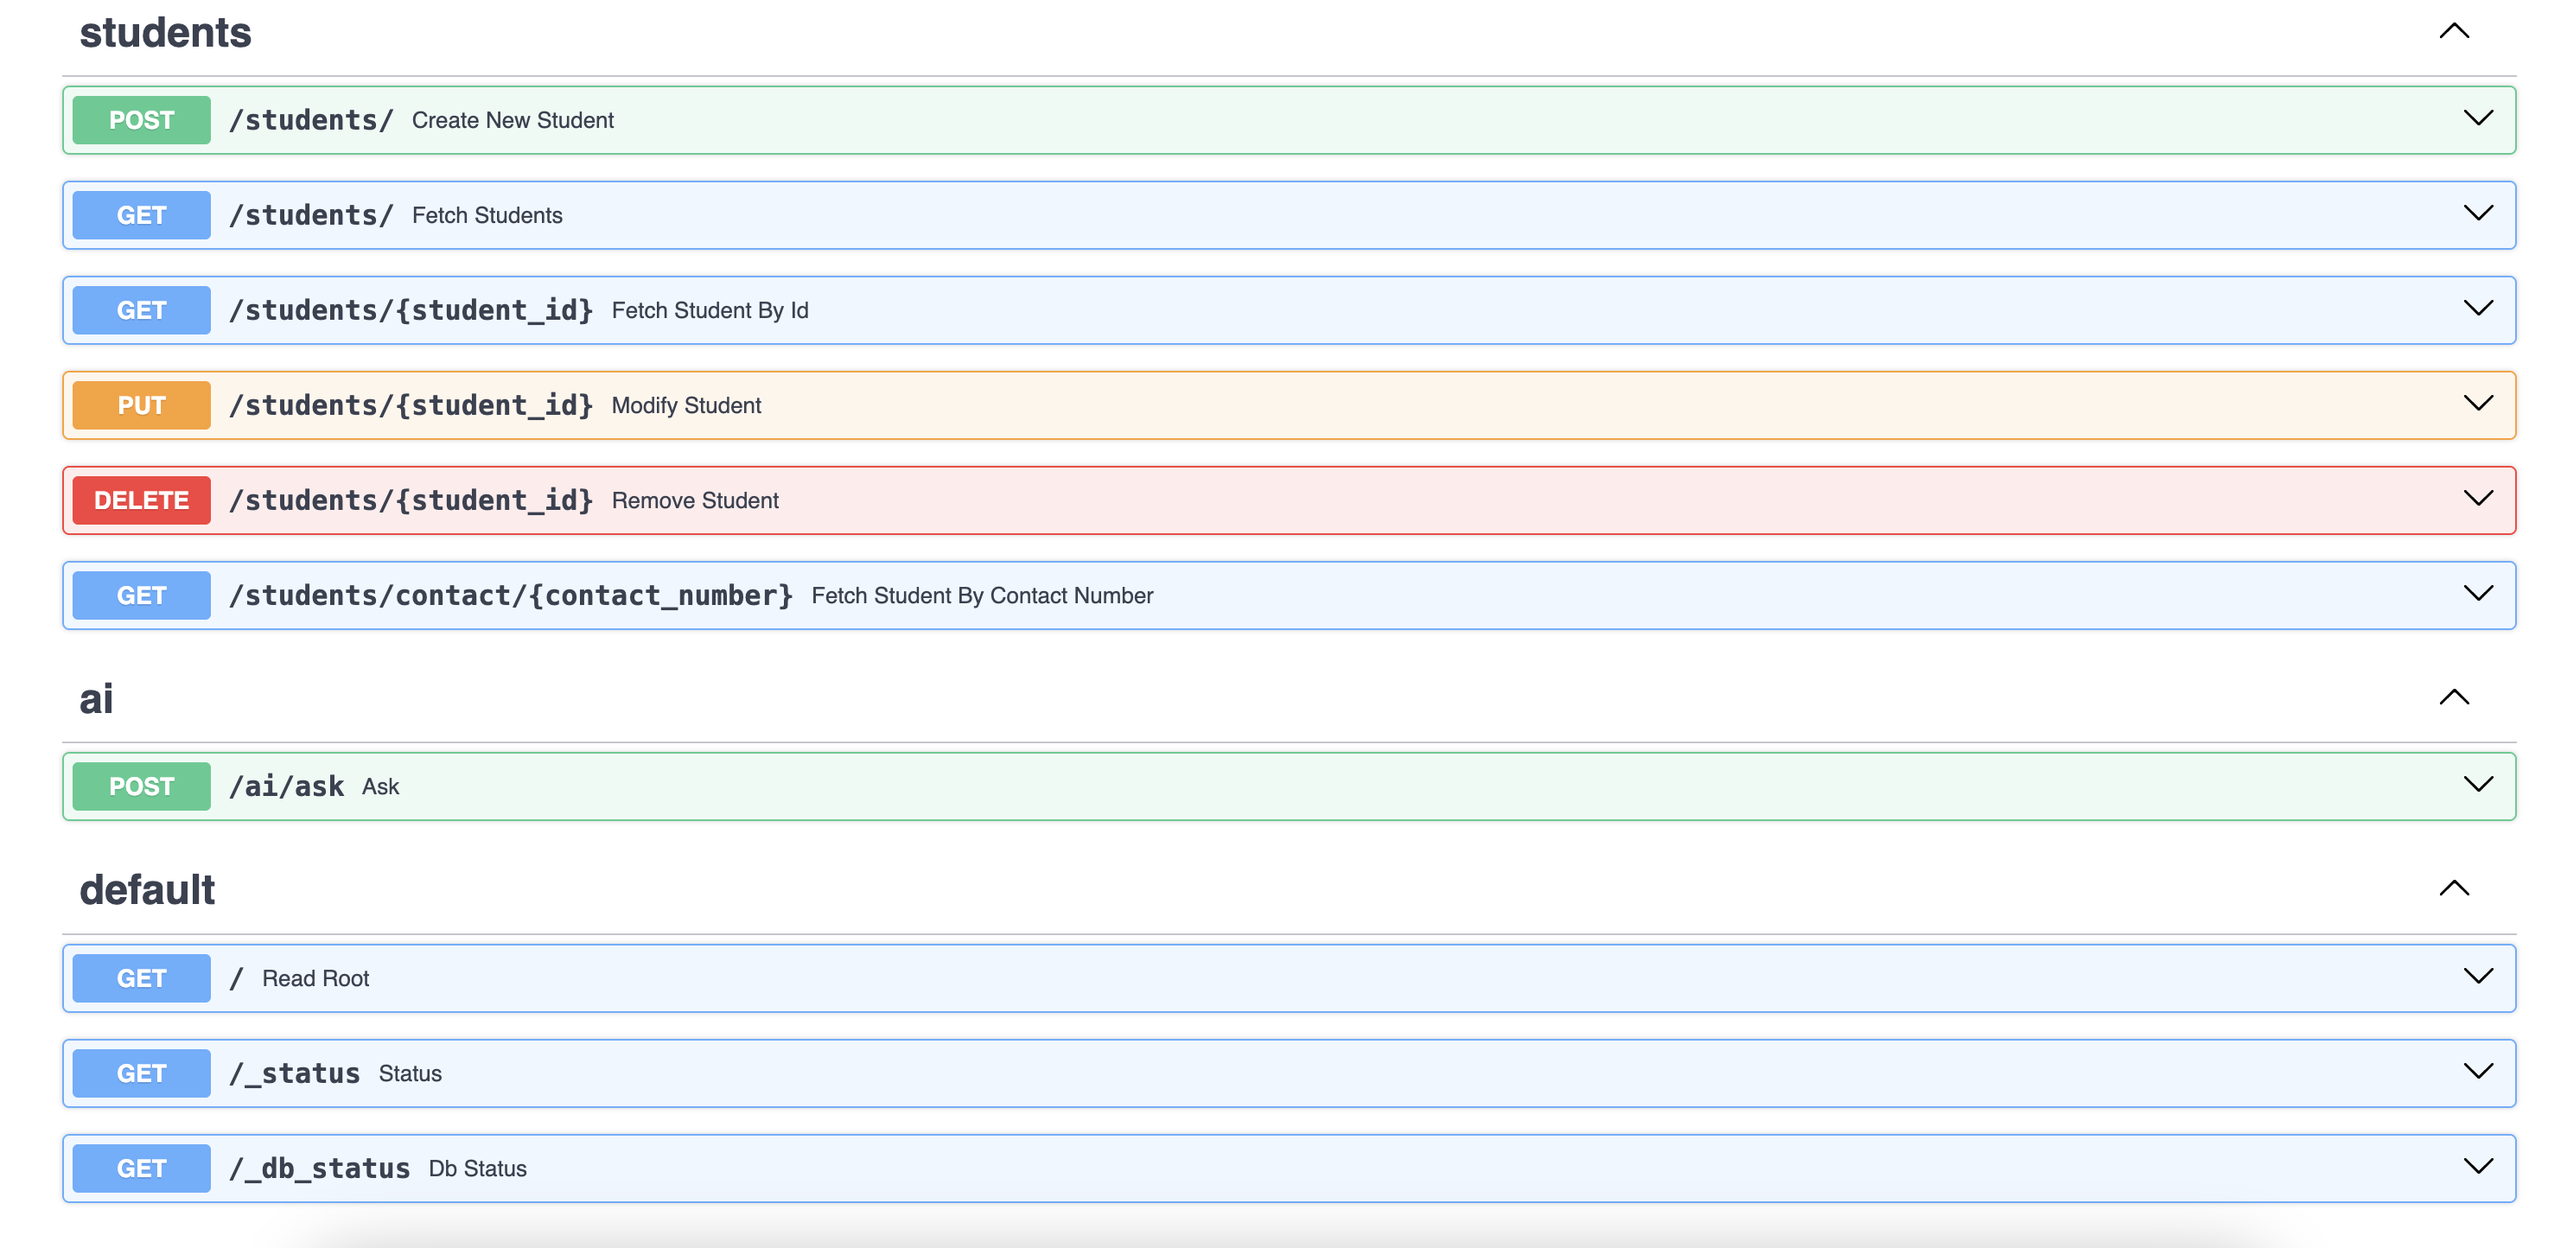
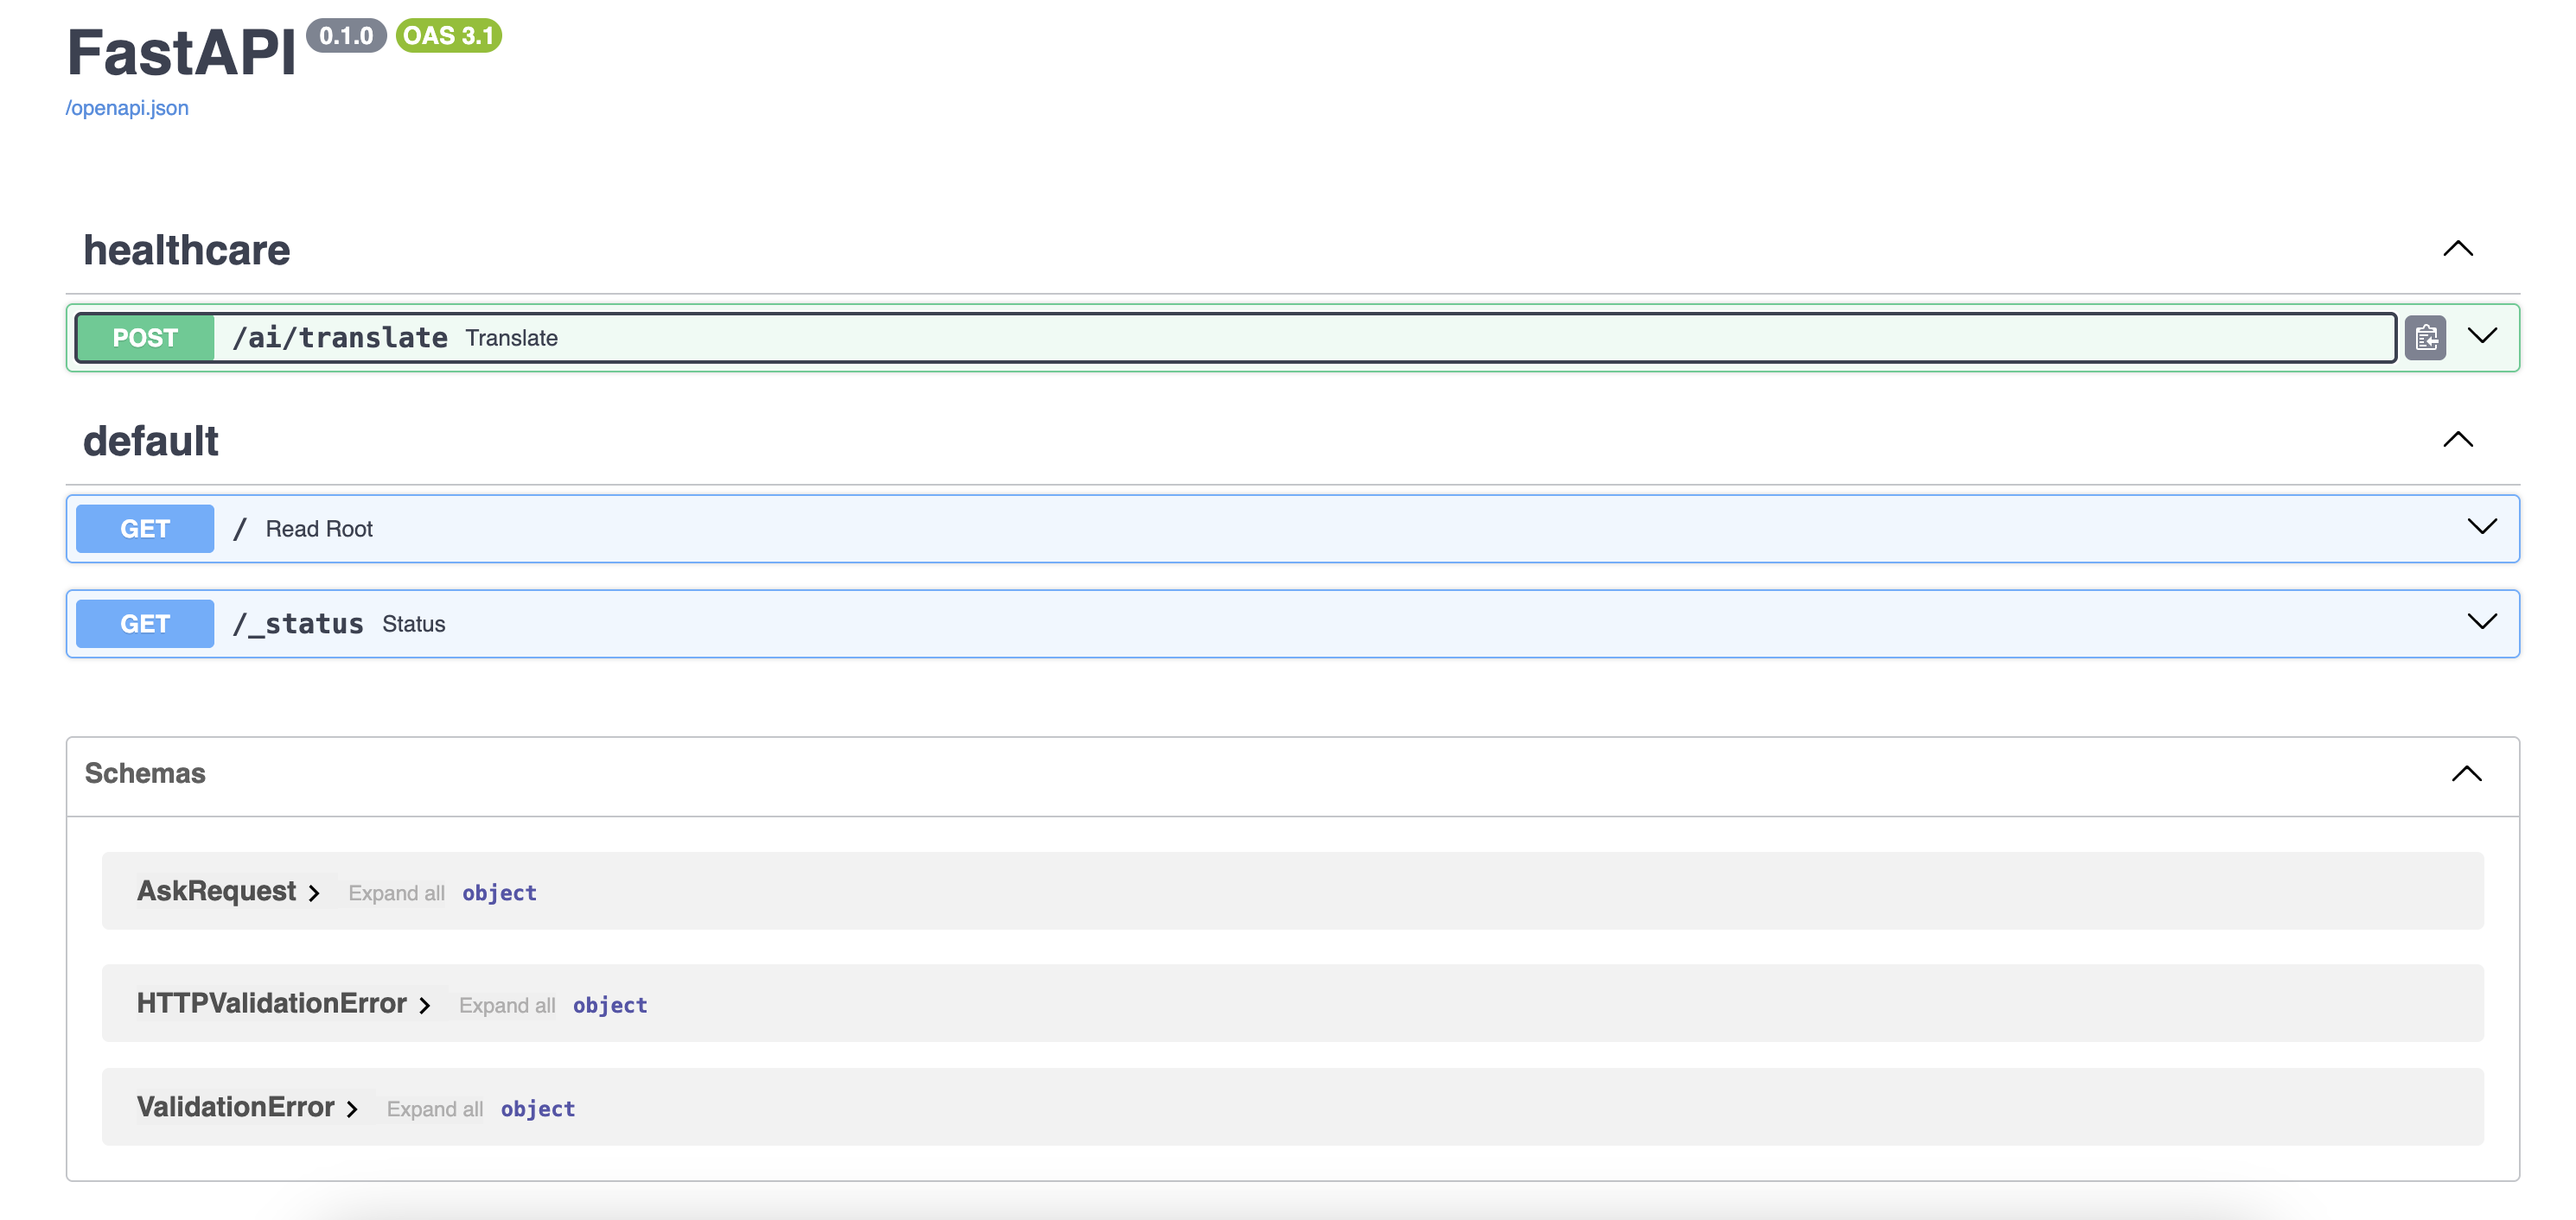
api documentation corrected

diff --git a/README.md b/README.md
@@ -1,10 +1,13 @@
-# HealthCare Translation
+## HealthCare Translation
 Translates medical terms and phrases with clinical precision
 Handles multiple languages including Spanish, French, German, Bengali, and more
 Improves translations with precise clinical terminology
 
+## Design
+![alt text](image-2.png)
+
 ## API Documentation
-![alt text](image.png)
+![alt text](image-1.png)
 
 ## Prerequisites
 Python 3.9+
